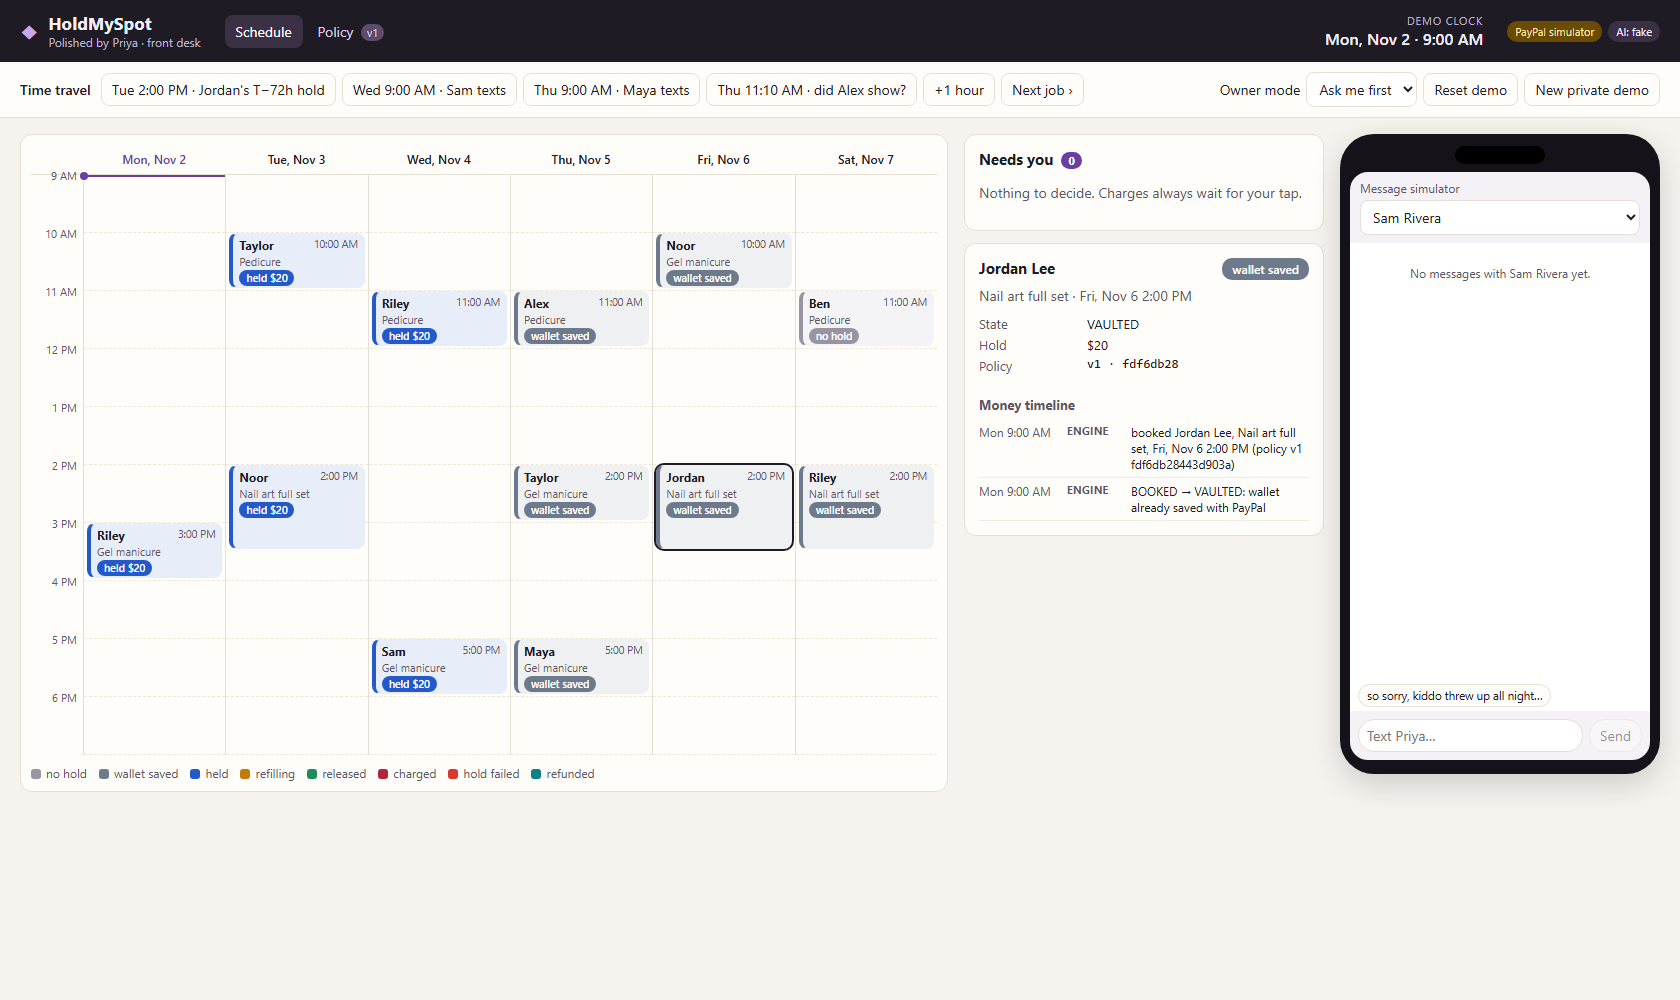
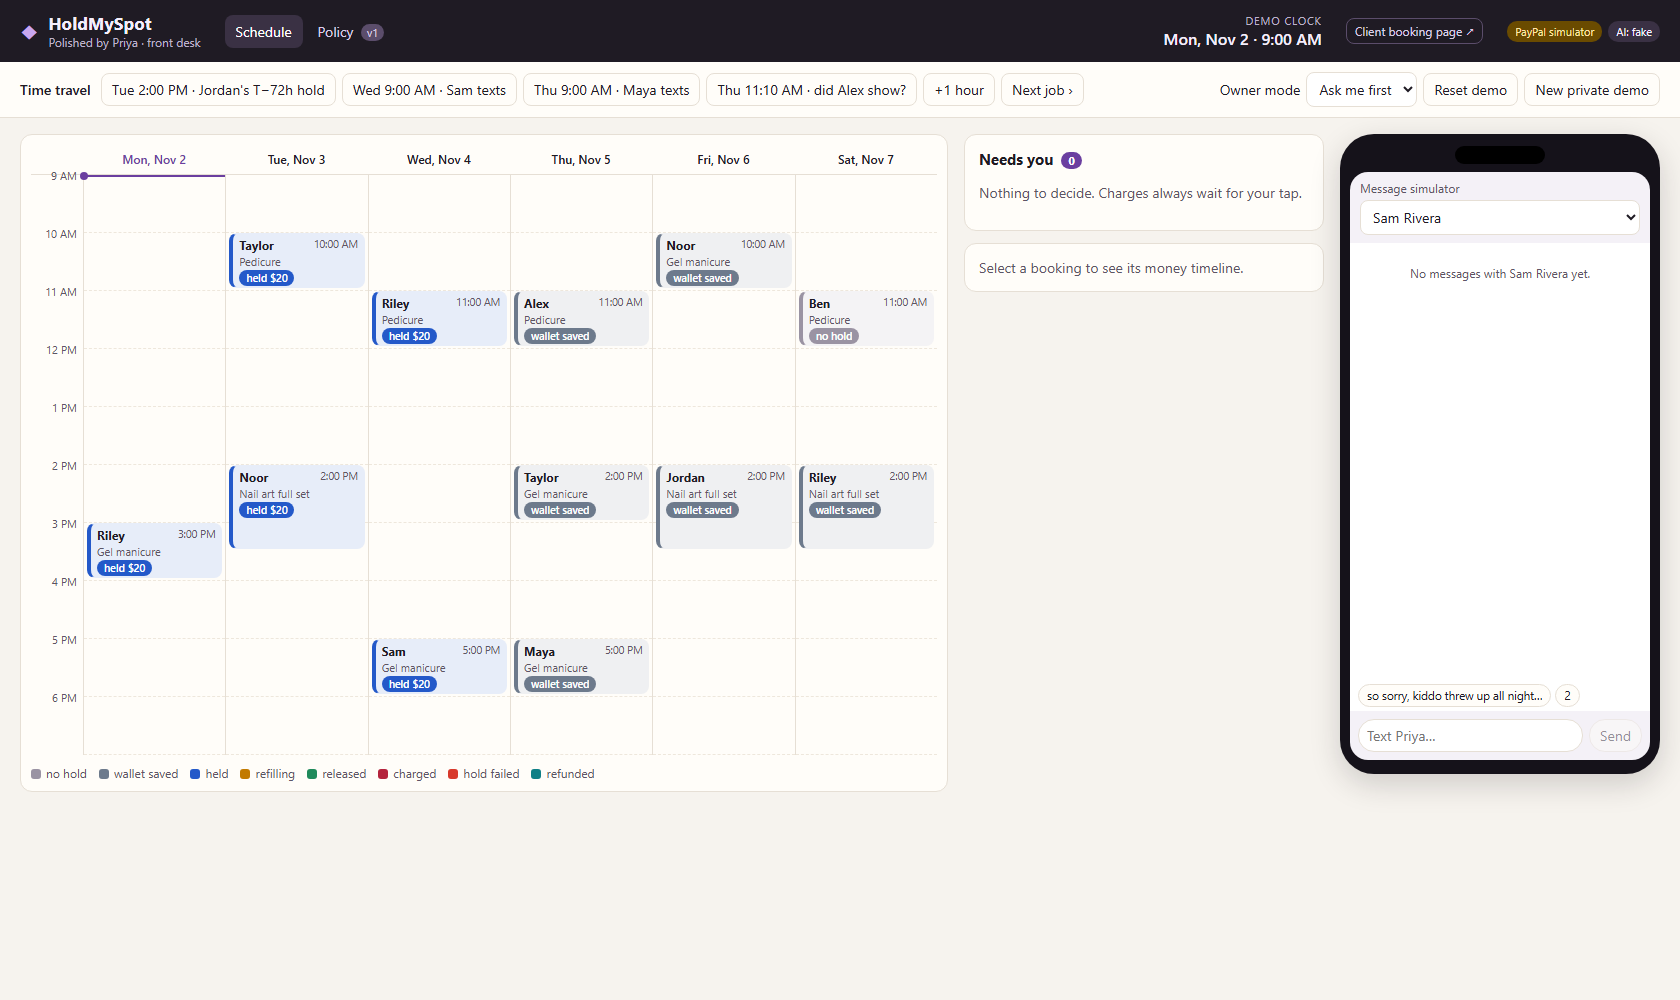
Quick reply for rebook, ?tab param, fresh main screenshot

diff --git a/web/src/App.tsx b/web/src/App.tsx
@@ -26,7 +26,7 @@ const SCENES: Array<{ label: string; at: number }> = [
 ];
 
 const QUICK: Record<string, string[]> = {
-  sam: ["so sorry, kiddo threw up all night, can't make it today"],
+  sam: ["so sorry, kiddo threw up all night, can't make it today", '2'],
   maya: ["I can't make it today, something came up"],
   eli: ['YES'],
   chris: ['yes!'],
@@ -52,7 +52,7 @@ export function App() {
   const [ws, setWs] = useWorkspace();
   const api = useMemo(() => new Api(ws), [ws]);
   const [s, setS] = useState<Snapshot | null>(null);
-  const [tab, setTab] = useState<'console' | 'policy'>('console');
+  const [tab, setTab] = useState<'console' | 'policy'>(new URLSearchParams(location.search).get('tab') === 'policy' ? 'policy' : 'console');
   // ?sel=<bookingId>&phone=<clientId> preselect views (handy for screenshots and the video)
   const [selected, setSelected] = useState<string | null>(new URLSearchParams(location.search).get('sel'));
   const [error, setError] = useState<string | null>(null);
